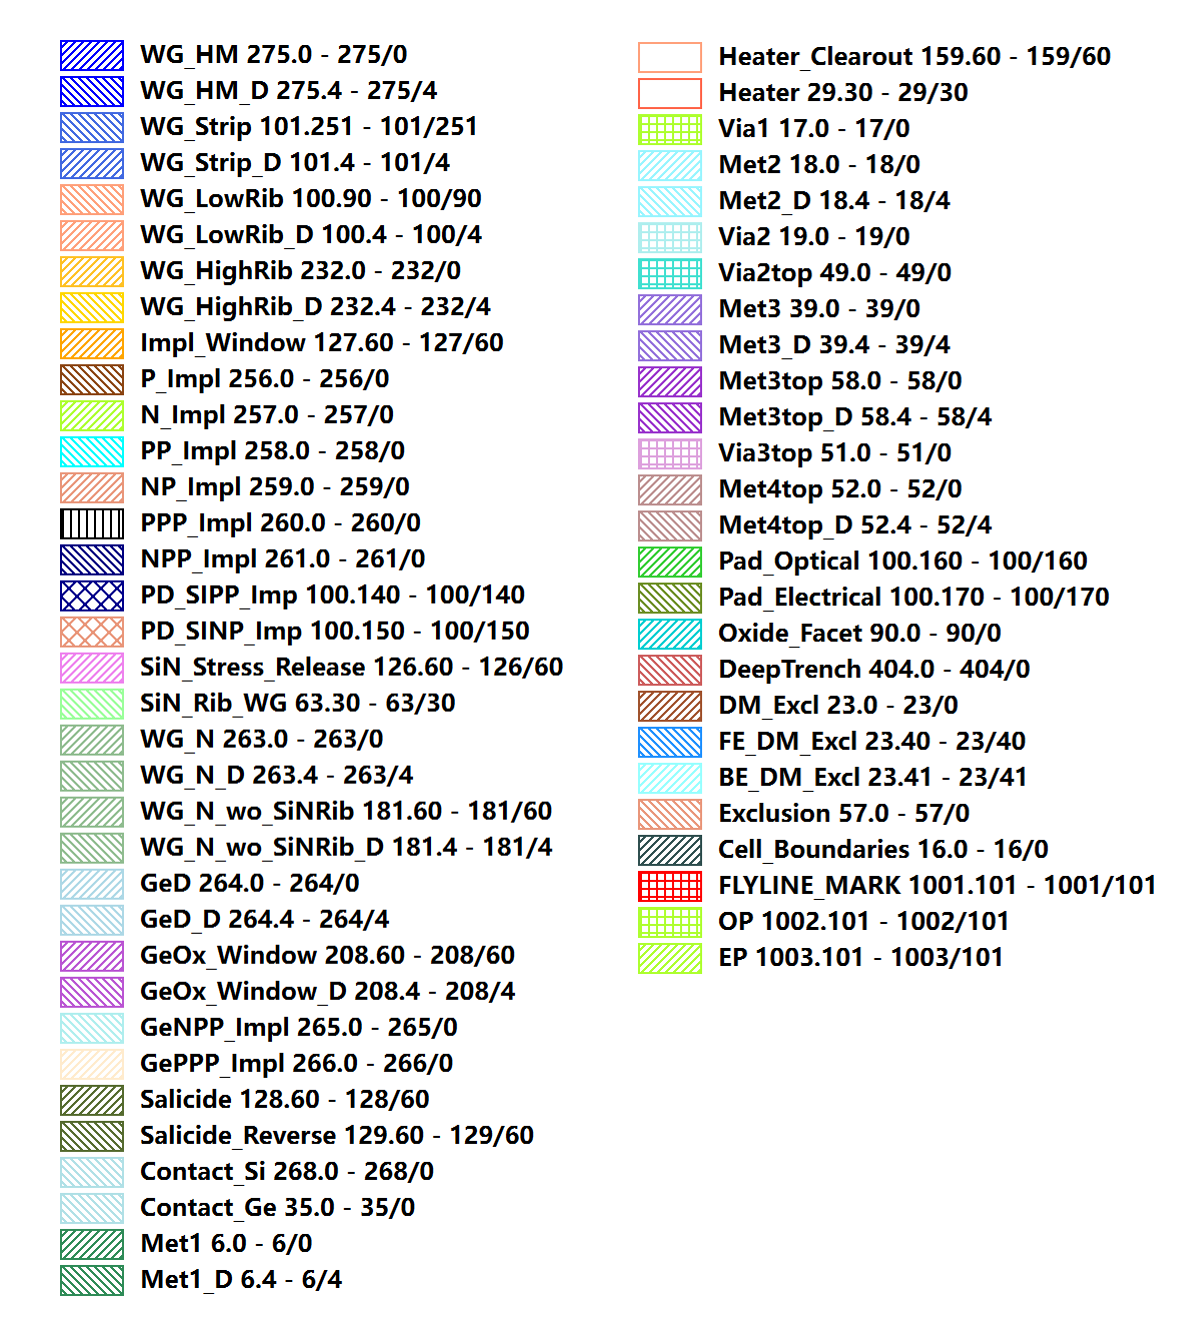
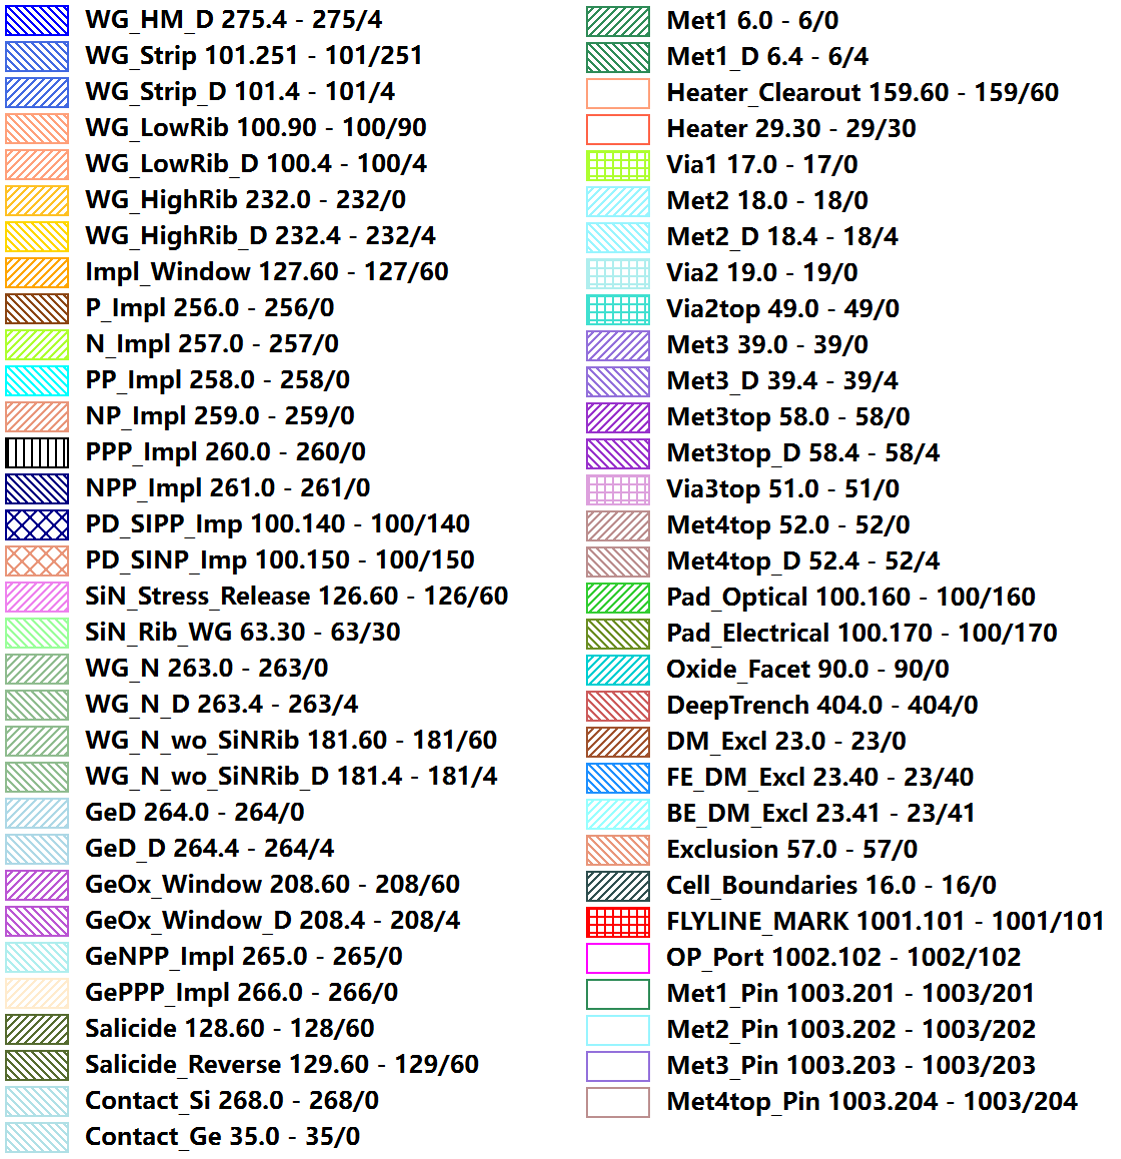
V261030

diff --git a/docs/source/component_list/via.rst b/docs/source/component_list/via.rst
@@ -14,11 +14,11 @@ ViaArray
 +----------------+---------------------+-----------------------------------------------------------------------------------+
 | spacing        | VIAS.SPACING        | Spacing between vias in array                                                     |
 +----------------+---------------------+-----------------------------------------------------------------------------------+
-| top_layer      | LAYER.UTM2          | Upper metal layer                                                                 |
+| top_layer      | LAYER.Met1          | Upper metal layer                                                                 |
 +----------------+---------------------+-----------------------------------------------------------------------------------+
-| via_layer      | LAYER.UTV           | Via layer                                                                         |
+| via_layer      | LAYER.Via1          | Via layer                                                                         |
 +----------------+---------------------+-----------------------------------------------------------------------------------+
-| bottom_layer   | LAYER.UTM           | Lower metal layer                                                                 |
+| bottom_layer   | LAYER.Met2          | Lower metal layer                                                                 |
 +----------------+---------------------+-----------------------------------------------------------------------------------+
 | top_shape      | VIAS.TOP_SHAPE      | Upper metal shape                                                                 |
 +----------------+---------------------+-----------------------------------------------------------------------------------+
@@ -30,3 +30,5 @@ ViaArray
 +----------------+---------------------+-----------------------------------------------------------------------------------+
 | bottom_enclosed| VIAS.BOTTOM_ENCLOSED| The distance of the via layer being enclosed within the lower metal layer         |
 +----------------+---------------------+-----------------------------------------------------------------------------------+
+
+

diff --git a/docs/source/tech/layers.rst b/docs/source/tech/layers.rst
@@ -64,9 +64,12 @@ The layers are auto-generated by filling the ``layers.csv`` file,  ``FLYLINE_MAR
         BE_DM_Excl = Layer(PROCESS.DME, PURPOSE.BE, 'Back-end layers dummy fill exclusion region')
         Exclusion = Layer(PROCESS.Exclusion, PURPOSE.DRW, 'DRC check exclusion recognition layer')
         Cell_Boundaries = Layer(PROCESS.Cell_Boundaries, PURPOSE.DRW, 'Frame cell boundaries/outline layer')
-        FLYLINE_MARK = Layer(PROCESS.FLYLINE, PURPOSE.MARK, 'Flyline for insufficient space in AutoLink')
-        OP = Layer(PROCESS.OP, PURPOSE.MARK, '')
-        EP = Layer(PROCESS.EP, PURPOSE.MARK, '')
+        FLYLINE_MARK = Layer(PROCESS.FLYLINE, PURPOSE.MARK1, 'Flyline for insufficient space in AutoLink')
+        OP_Port = Layer(PROCESS.OP_Port, PURPOSE.MARK_OP1, 'Optical port marker')
+        Met1_Pin = Layer(PROCESS.EP_Pin, PURPOSE.MARK_ELE1, 'Metal1 electrical pin marker')
+        Met2_Pin = Layer(PROCESS.EP_Pin, PURPOSE.MARK_ELE2, 'Metal2 electrical pin marker')
+        Met3_Pin = Layer(PROCESS.EP_Pin, PURPOSE.MARK_ELE3, 'Metal3 electrical pin marker')
+        Met4top_Pin = Layer(PROCESS.EP_Pin, PURPOSE.MARK_ELE4, 'Metal4 top electrical pin marker')
 
 
 For users using layout viewers (e.g. KLayout), they can import the layer properties file ``SilTerra_EMOA_PDK_rev6p0_Latitude.lyp`` in the file folder.

diff --git a/docs/source/component_list/taper.rst b/docs/source/component_list/taper.rst
@@ -12,7 +12,7 @@ TaperLinear
 +----------------+-----------------+------------------------------------------------------------------------------------+
 |left_type       |  --             | Type of waveguide of start                                                         |
 +----------------+-----------------+------------------------------------------------------------------------------------+
-|left_type       |  --             | Type of waveguide of end                                                           |
+|right_type      |  --             | Type of waveguide of end                                                           |
 +----------------+-----------------+------------------------------------------------------------------------------------+
 
 +-------------------+-----------------------------+-------------+

diff --git a/docs/source/tech/metal_M2.rst b/docs/source/tech/metal_M2.rst
@@ -1,4 +1,4 @@
-m2.py
+met2.py
 ===================
 
-Define the ``M2`` metal layer used in the SilTerra PDK. 
+Define the ``MET2`` metal layer used in the SilTerra PDK. 

diff --git a/docs/source/tech/metal_M1.rst b/docs/source/tech/metal_M1.rst
@@ -1,4 +1,4 @@
-m1.py
+met1.py
 ===================
 
-Define the ``M1`` metal layer used in the SilTerra PDK.
+Define the ``MET1`` metal layer used in the SilTerra PDK.

diff --git a/docs/source/tech/metal_M3.rst b/docs/source/tech/metal_M3.rst
@@ -1,4 +1,4 @@
-m3.py
+met3.py
 ===================
 
-Define the ``M3`` metal layer used in the SilTerra PDK.
+Define the ``MET3`` metal layer used in the SilTerra PDK.

diff --git a/docs/source/tech/metal_M4.rst b/docs/source/tech/metal_M4.rst
@@ -1,4 +1,4 @@
-m4.py
+met4.py
 ===================
 
-Define the ``M4`` metal layer used in the SilTerra PDK.
+Define the ``MET4`` metal layer used in the SilTerra PDK.
